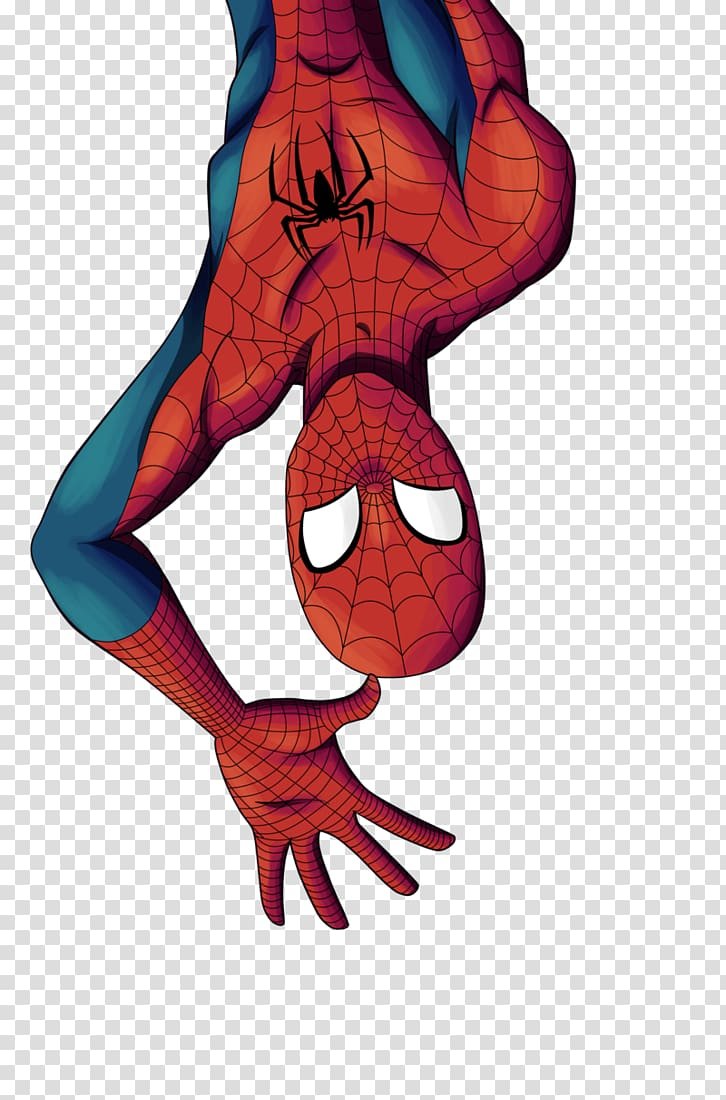
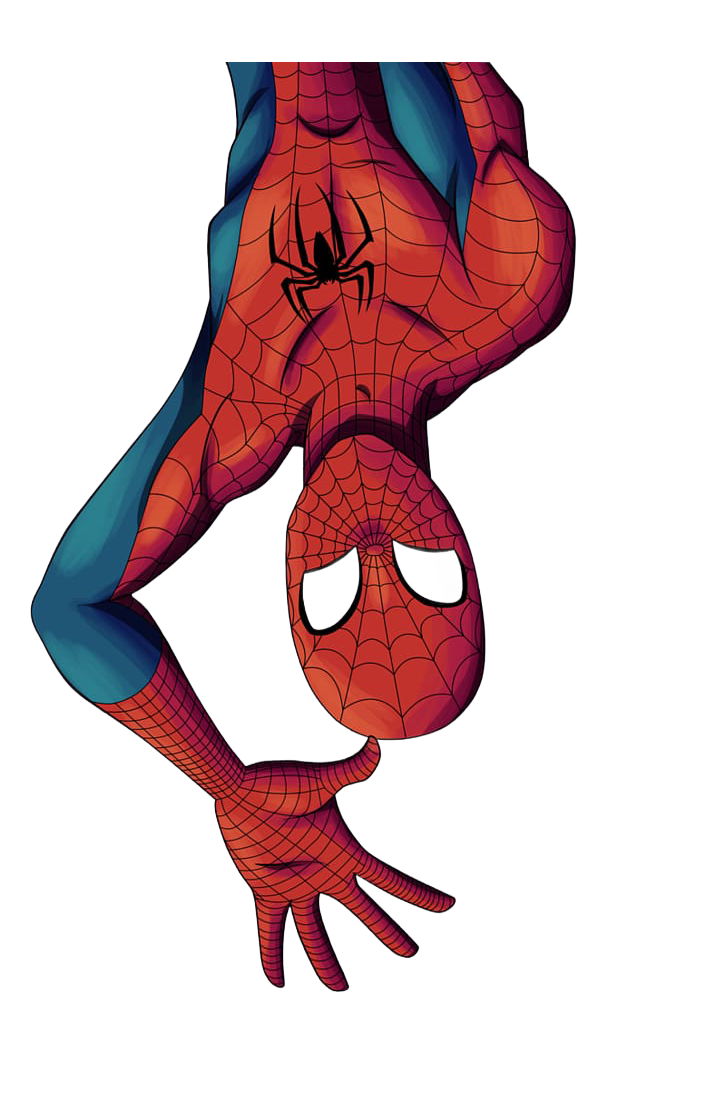
Finished portfolio

diff --git a/index.html b/index.html
@@ -30,7 +30,7 @@
         <div class="container">
             <div class="row">
                 <div class="about-col-1">
-                    <img src="images/background.png"><script src="https://kit.fontawesome.com/8d03c3c200.js" crossorigin="anonymous"></script>
+                    <img src="images/spiderman.png"><script src="https://kit.fontawesome.com/8d03c3c200.js" crossorigin="anonymous"></script>
                 </div>
                 <div class="about-col-2">
                     <h1 class="sub-title">About Me</h1>
@@ -128,6 +128,33 @@
             <a href="#" class="btn">See more</a>
         </div>
       </div>
+
+      <!-- Contact -->
+       <div id="contact">
+        <div class="container">
+            <div class="row">
+                <div class="contact-left">
+                    <h1 class="sub-title">Contact Me</h1>
+                    <p><a href="https://gmail.com"><i class="fa-solid fa-paper-plane"></i></a>nileshsunuwar13@gmail.com</p>
+                   <p> <a href=""><i class="fa-solid fa-phone"></i></i></a>9842746763</p>
+                    <div class="social-icons">
+                        <a href="https://facebook.com/sunuwarunairushu"><i class="fa-brands fa-facebook"></i></a>
+                        <a href="https://discord.com/ilosecuzoflag"><i class="fa-brands fa-discord"></i></a>
+                        <a href="https://instagram.com/nairushuu"><i class="fa-brands fa-instagram"></i></a>
+                        <a href="https://www.linkedin.com/in/nilesh-sunuwar-521924366/"><i class="fa-brands fa-linkedin"></i></i></a>
+                    </div>
+                    </div>
+                    <div class="contact-right">
+                    <form>
+                    <input type="text" name="Name" placeholder="Your Name" required>
+                    <input type="email" name="Email" placeholder="Your Email" required>
+                    <textarea rows="5" rows="6" placeholder="Your Message"></textarea>
+                    <button type="submit" class="btn btn2">Send Message</button>
+                </form>
+                </div>
+            </div>
+        </div>
+       </div>
 
 
 

diff --git a/style.css b/style.css
@@ -233,5 +233,65 @@ nav ul li a:hover::after{
 }
 .btn{
     display: block;
-    margin:
+    margin: 50px auto;
+    width: fit-content;
+    border: 1px solid #ff004f;
+    padding: 14px 50px;
+    border-radius: 6px;
+    text-decoration: none;
+    color: #fff; 
+    transition: background 0.5s;
 }
+.btn:hover{
+    background: #ff004f;
+}
+/* Contact */
+
+
+.contact-left {
+    flex-basis: 35%;
+}
+
+.contact-right {
+    flex-basis: 60%;
+}
+.social-icons{
+    margin-top: 30px;
+}
+.social-icons a {
+    text-decoration:none;
+    font-size: 30px;
+    margin-right:15px;
+    color: #ababab;
+    display: inline-block;
+    transition: transform 0.5s;
+}
+
+.social-icons a:hover {
+    background: #fff;
+    color: #ff004f;
+    transform: translateY(-5px);
+}
+.contact-left p{
+    margin-top: 30px;
+}
+.contact-left p i{
+    color: #ff004f;
+    margin-right: 15px;
+    font-size: 25px;
+}
+.contact-right form{
+    width: 100%;
+}
+form input, form textarea{
+    width: 100%;
+    border: 0;
+    outline: none;
+    background: #444343;
+    padding: 15px;
+    margin: 15px 0;
+    color: #ffffff;
+    font-size: 18px;
+    border-radius: 6px;
+}
+
